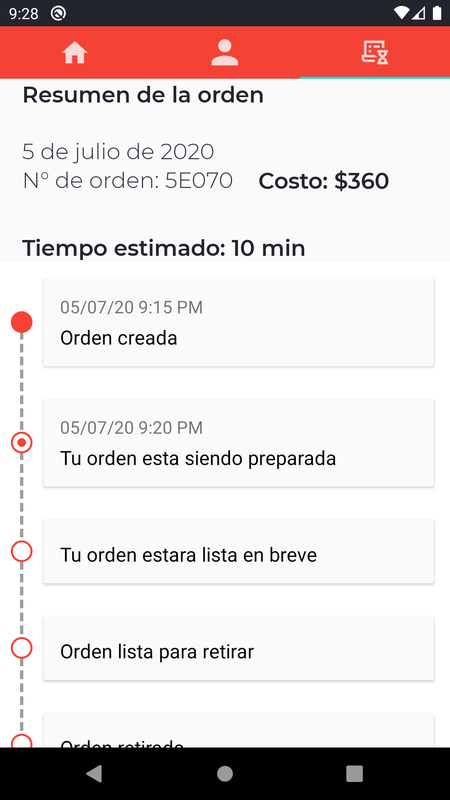
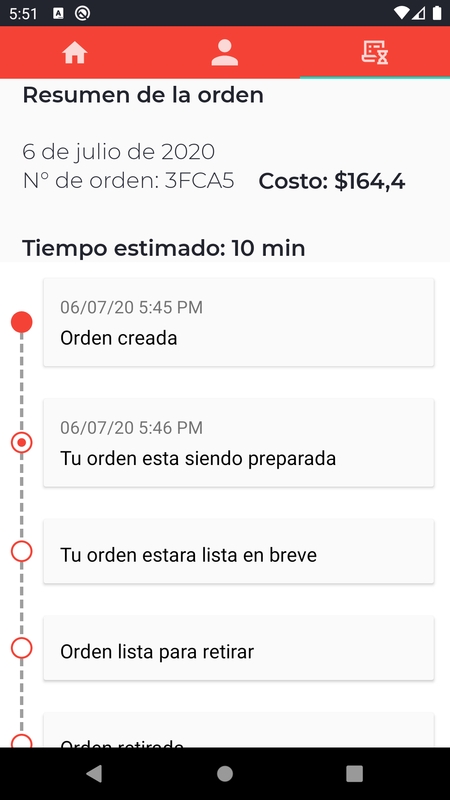
Pantalla de resumen de orden actualizada

diff --git a/app/src/main/java/com/easypick/easypick/fragments/ResumenOrdenFragment.kt b/app/src/main/java/com/easypick/easypick/fragments/ResumenOrdenFragment.kt
@@ -48,7 +48,7 @@ class ResumenOrdenFragment: Fragment(), OnBackPressedInterface {
         super.onViewCreated(view, savedInstanceState)
         view.costo.text = getString(R.string.costo, NumberFormat.getNumberInstance(Locale.GERMAN).
             format(order.costo))
-        view.order_id.text = getString(R.string.orden_id, order.id)
+        view.order_id.text = getString(R.string.orden_id, order.id.take(5))
         if (order.timestamp == null){
             view.fecha.text = DateFormat.getDateInstance(DateFormat.LONG,
                 Locale("es", "ES")).format(Calendar.getInstance().time)
